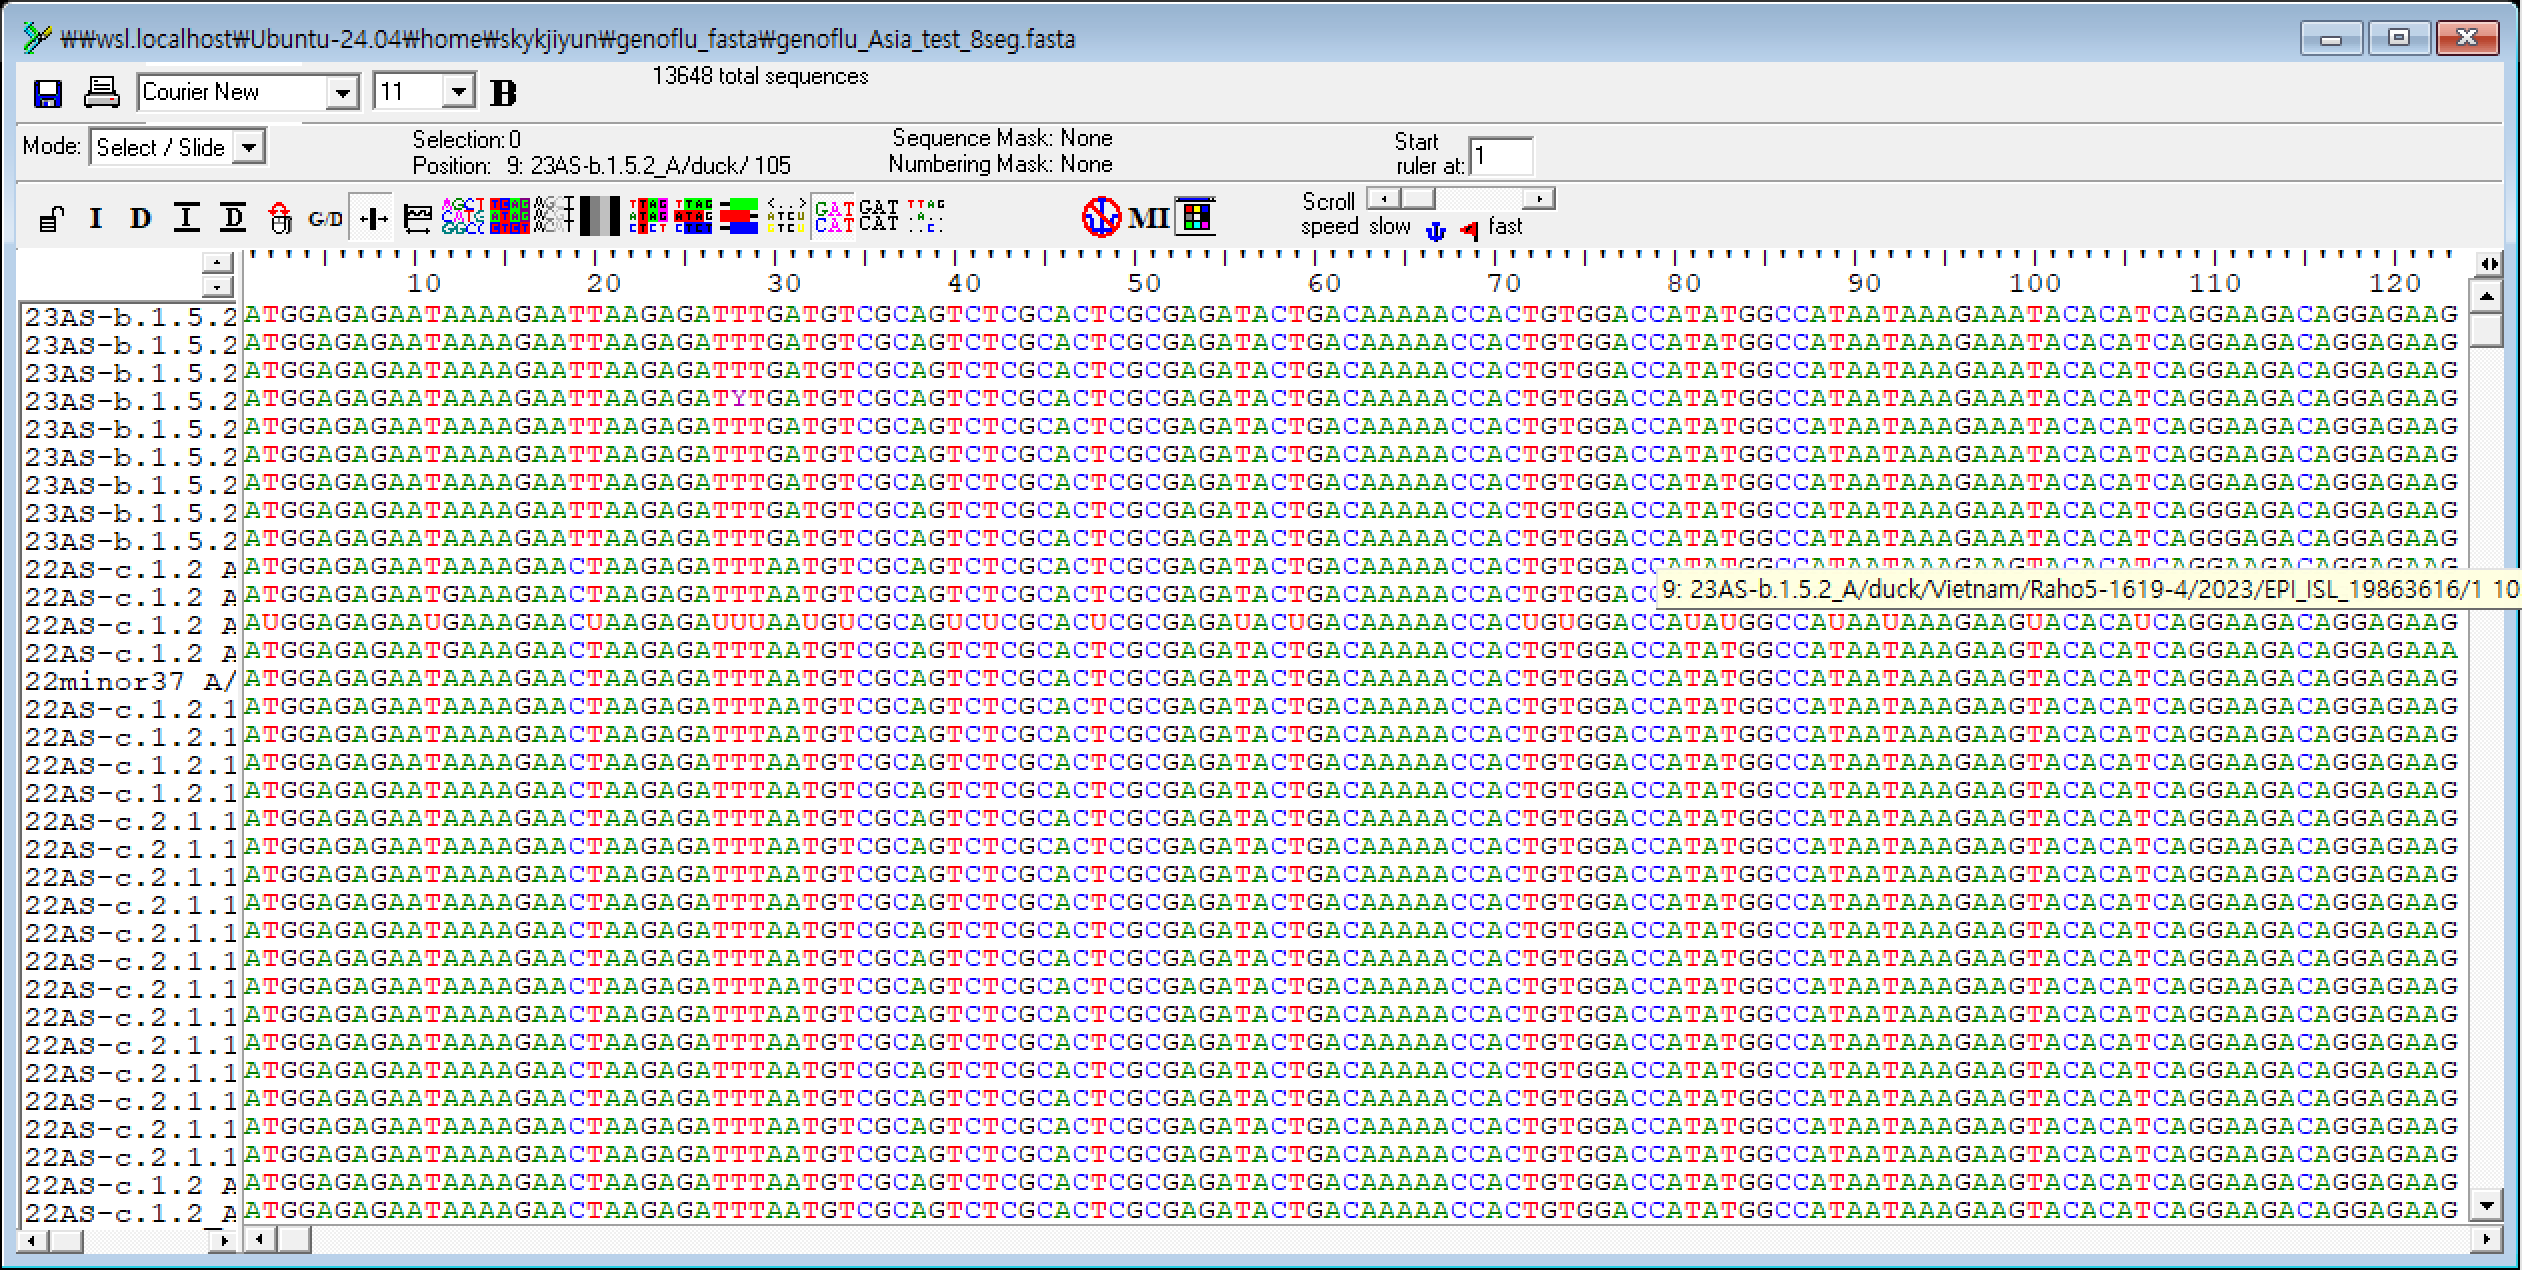
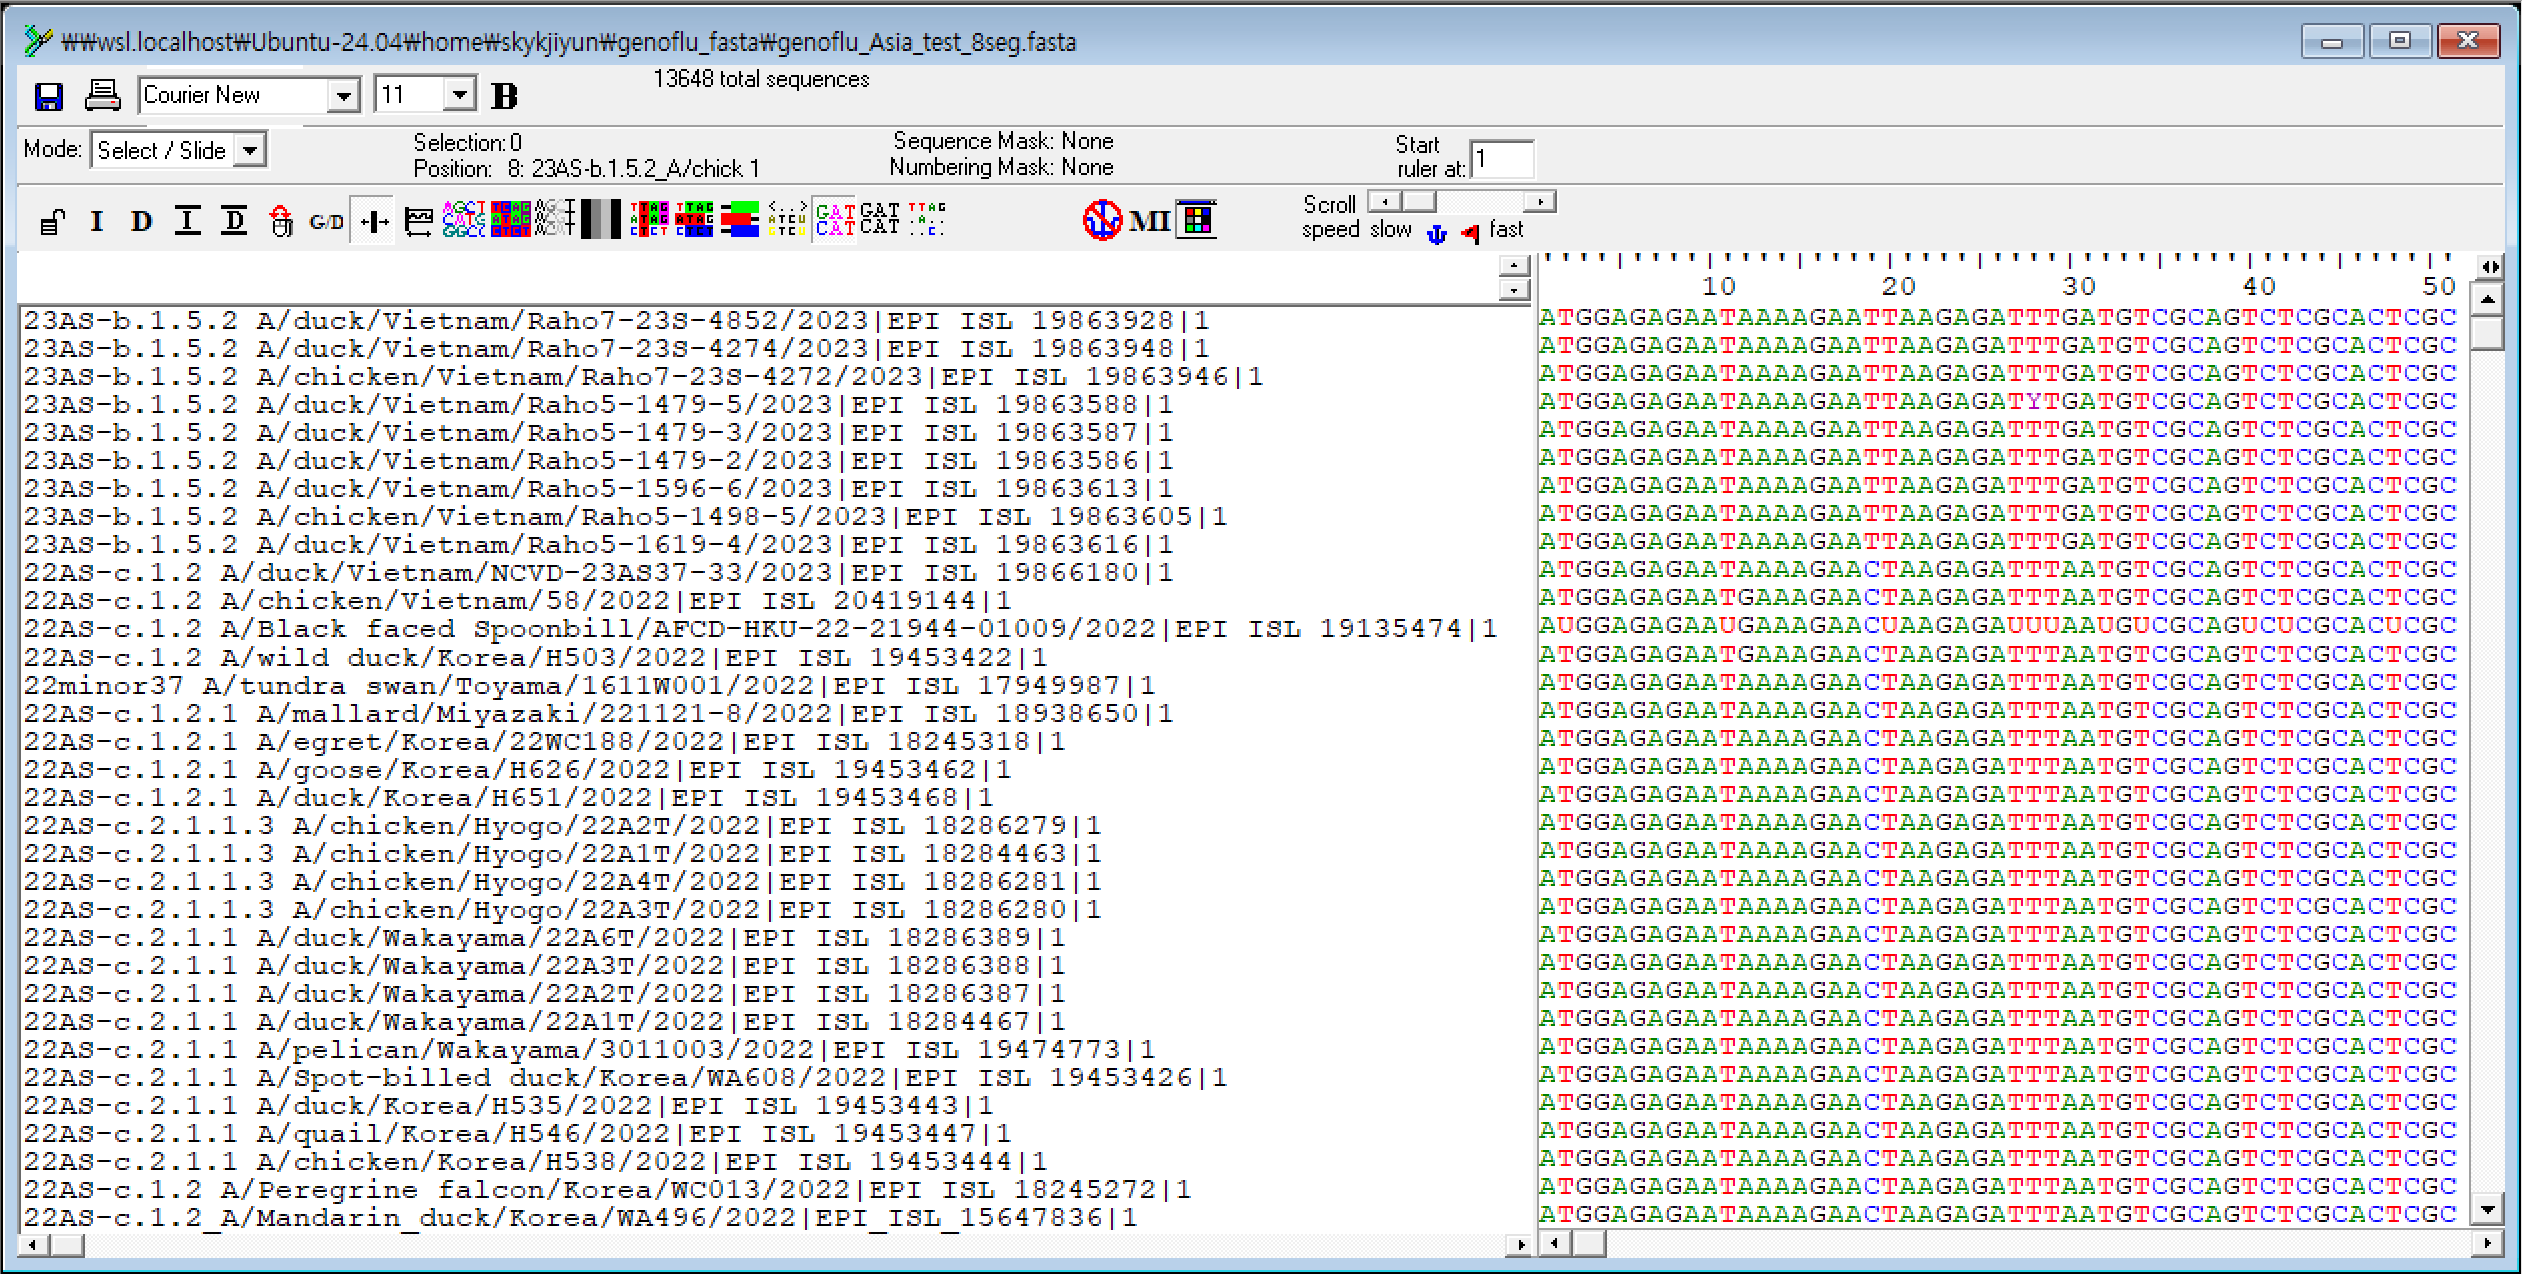
Replace input FASTA example with updated sequence names

diff --git a/docs/usage.html b/docs/usage.html
@@ -27,7 +27,7 @@ pwd</code></pre>
 <pre><code>&gt;sample01|PB2
 &gt;sample01|PB1</code></pre>
 <p>These are header examples only, not a runnable input file; each must be followed by its corresponding real nucleotide sequence.</p>
-<h3>Input FASTA example</h3><figure style="margin:24px 0"><a href="docs/input_fasta_example.png" target="_blank" rel="noopener"><img src="docs/input_fasta_example.png" alt="Example input FASTA displayed in a sequence editor" loading="lazy"></a><figcaption class="smallnote">Example input FASTA displayed in a sequence editor. This is a viewing example, not a required software or alignment step; prepare headers as described above. Click to enlarge.</figcaption></figure><h3 id="run">Run</h3>
+<h3>Input FASTA example</h3><figure style="margin:24px 0"><a href="docs/input_fasta_example.png?v=2" target="_blank" rel="noopener"><img src="docs/input_fasta_example.png?v=2" alt="Example input FASTA displayed in a sequence editor" loading="lazy"></a><figcaption class="smallnote">Example input FASTA displayed in a sequence editor. This is a viewing example, not a required software or alignment step; prepare headers as described above. Click to enlarge.</figcaption></figure><h3 id="run">Run</h3>
 <div class="stephead code-actions"><button class="copy" data-copy="command-2">Copy</button></div><pre><code id="command-2">conda activate genoflu-asia
 cd ~/genoflu_asia_analysis
 genoflu-asia --input ./input --output ./output</code></pre>
